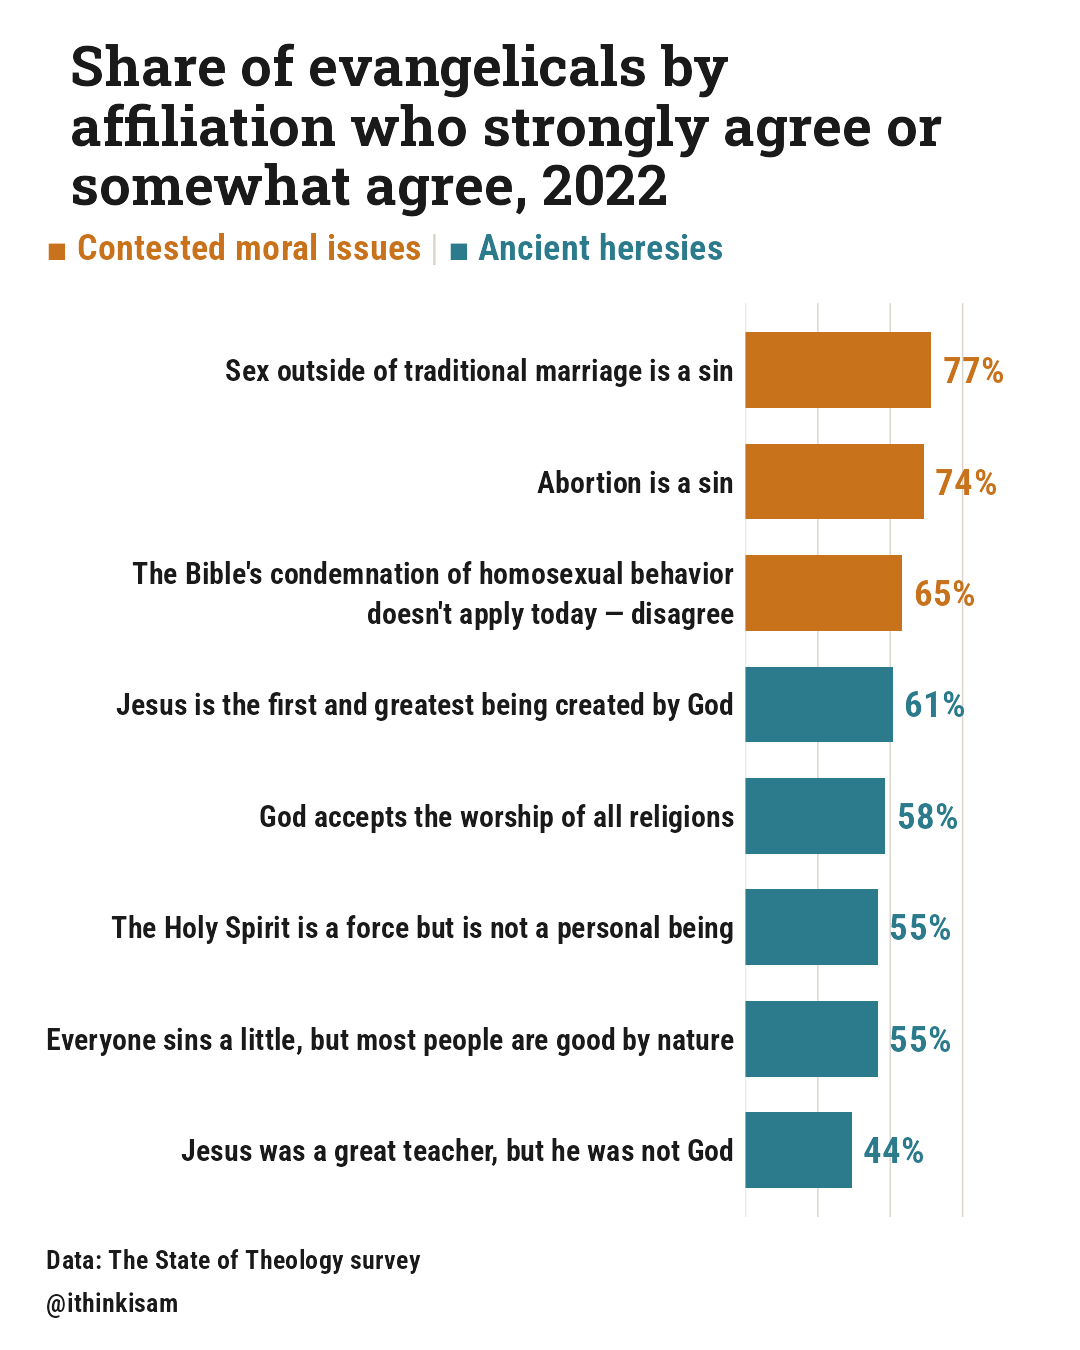
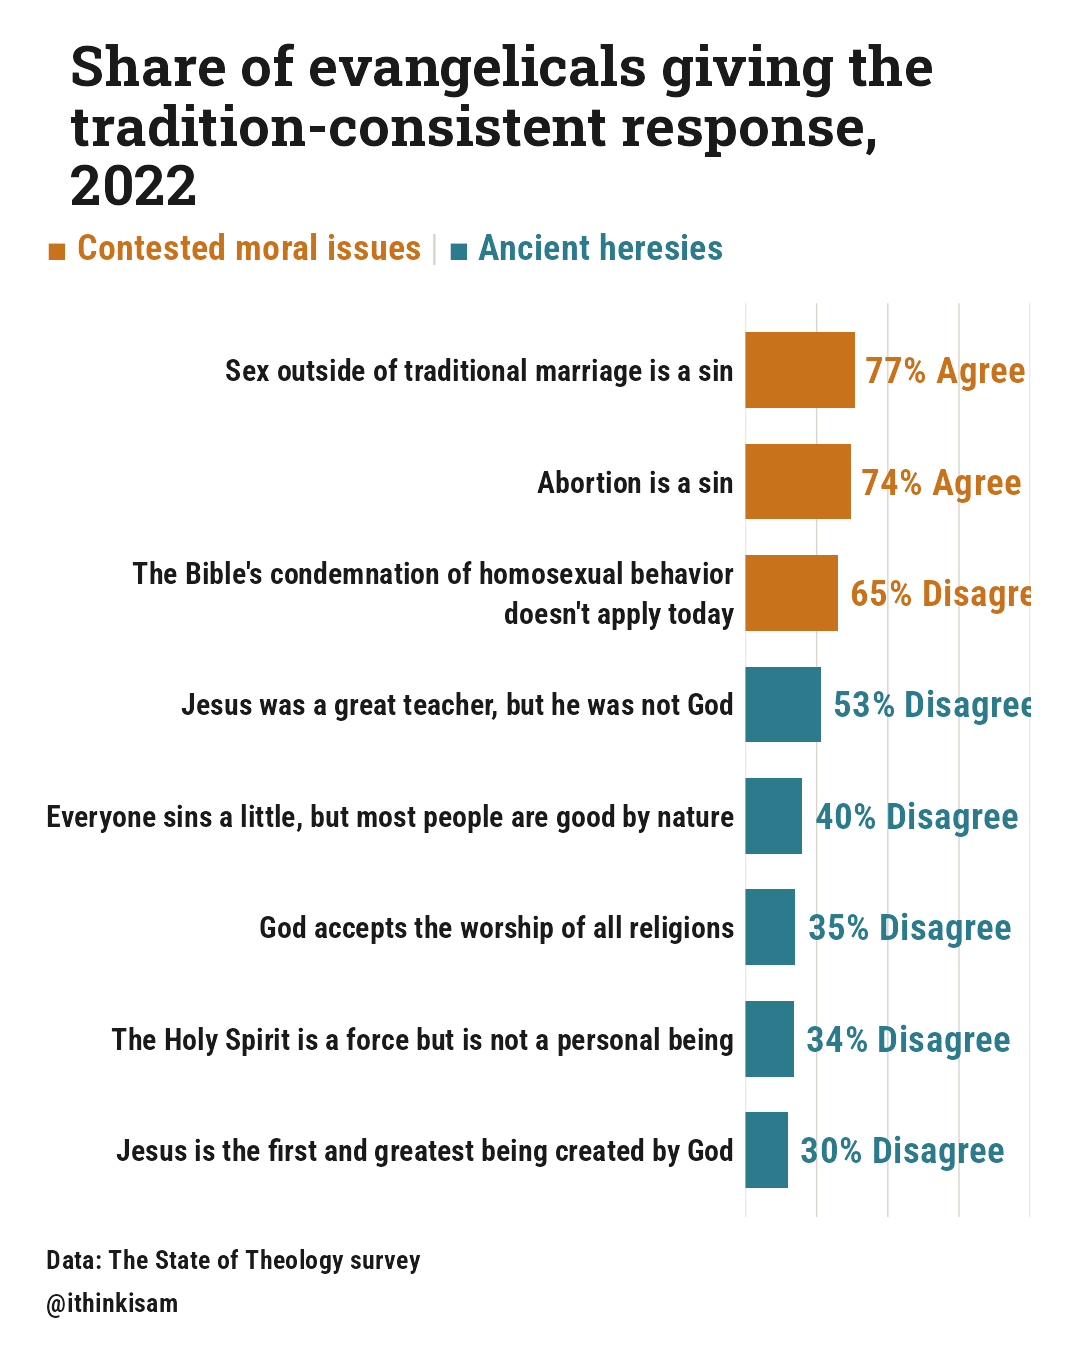
post1 scorecard: every bar now measures tradition-consistent response
The five Doctrine rows (Arianism, Trinity denial, Pelagianism, religious
pluralism) were plotting % agree even though agreeing with a stated
heresy is the opposite of tradition-consistent - flipped them to %
disagree (30/35/34/40/53, recomputed from the State of Theology 2022
respondent microdata and cross-checked against Ligonier's own published
figures). Every bar's label now names its direction ("77% Agree", "30%
Disagree") instead of a bare percentage, and the title says what's
actually being measured.

diff --git a/src/app/data-explorer/state-of-theology/social/post1/page.tsx b/src/app/data-explorer/state-of-theology/social/post1/page.tsx
@@ -45,7 +45,7 @@ const SLIDES = [
   { file: "jesus_not_god.png", title: "“Jesus was a great teacher, but he was not God.”" },
   {
     file: "9_scorecard.png",
-    title: "Share of evangelicals by affiliation who strongly agree or somewhat agree, 2022",
+    title: "Share of evangelicals giving the tradition-consistent response, 2022",
   },
   { file: "10_thesis.png", title: "Words without weight" },
 ];

diff --git a/scripts/social-graphics/social media posts/README.md b/scripts/social-graphics/social media posts/README.md
@@ -213,3 +213,53 @@ Every regenerated PNG was checked for the script's own built-in overlap
 warning (LDS bar vs. caption) and visually spot-checked (longest 3-line
 title, and the widest "Black Protestant" row) — no warnings, nothing
 clips.
+
+## What changed (round seven: scorecard bars are now all "tradition-consistent", not always "agree")
+
+post1's scorecard (`9_scorecard.png`) used to plot every statement's %
+agree, even though "agree" means something different depending on the
+statement: agreeing with an orthodox social statement (the two Ethics
+rows) is the tradition-consistent position, but agreeing with a Doctrine
+row is NOT - every one of those five rows states a historic heresy
+(Arianism, denial of the Trinity/Christ's deity, Pelagianism, religious
+pluralism), so DISAGREEING is what's tradition-consistent there. Mixing
+both under one "% agree" axis made the five Doctrine bars measure the
+opposite of what the two Ethics bars did, without saying so.
+
+- **Every bar is now "% giving the tradition-consistent response"**,
+  and each bar's own label says which direction that was (`"77% Agree"`,
+  `"30% Disagree"` - `dirword_cap()`), not just a bare percentage. Title
+  changed from the (already non-editorial, previous-round) description
+  to name this directly: "Share of evangelicals giving the
+  tradition-consistent response, 2022".
+- **The five Doctrine rows' plotted values flipped from % agree to %
+  disagree**: arian 61→30, all_religions 58→35, spirit_force 55→34,
+  good_by_nature 55→40, jesus_not_god 44→53. The Ethics rows are
+  unchanged (sex/abortion stay % agree - already tradition-consistent
+  agreeing; the homo row stays at 65, already % disagree from its
+  original sourcing, just with the "— disagree" now-redundant suffix
+  dropped from its statement text since the bar's own label says it).
+- **Where the new disagree numbers came from**: `arian`'s disagree% (30)
+  was already implicit in data.json's raw_pct. The other four had no
+  disagree% published anywhere in this repo - Ligonier's public 2022
+  report only breaks agree/disagree out by tradition for one of them
+  (spirit_force: "Evangelicals are the mostly likely to Disagree (34%)").
+  Recomputed all four directly from the State of Theology 2022
+  respondent microdata (`responses-2022.csv`, same file
+  `ARIAN_CSV_URL`/`build_data.py`'s `arian_wave_reference` already uses
+  for `arian`'s own number): WT-weighted response share among RELTRAD==1
+  (Evangelical) rows, summing strongly_disagree + somewhat_disagree,
+  using each item's own 2022 Q-column (all_religions=Q21_3,
+  jesus_not_god=Q22_3, spirit_force=Q23_1, good_by_nature=Q24_1, per the
+  2022 Full Report PDF's own item numbering). Cross-checked two ways
+  before trusting the numbers: the same computation's agree% for all
+  five items lands within 1pt of this script's existing (unchanged) 2022
+  agree numbers, and the recomputed spirit_force disagree% (34.2→34)
+  matches Ligonier's own published bullet exactly.
+- The value-label text is much longer now ("NN% Disagree" vs. the old
+  bare "NN%"), so `scale_x_continuous`'s upper limit widened 118→200 to
+  keep it clear of the canvas edge - checked with a pixel-level scan
+  (rightmost non-white column), not just a visual read, since the
+  chat-preview image viewer's downscaled thumbnail was misleadingly
+  showing what looked like clipping that isn't actually present in the
+  file.
